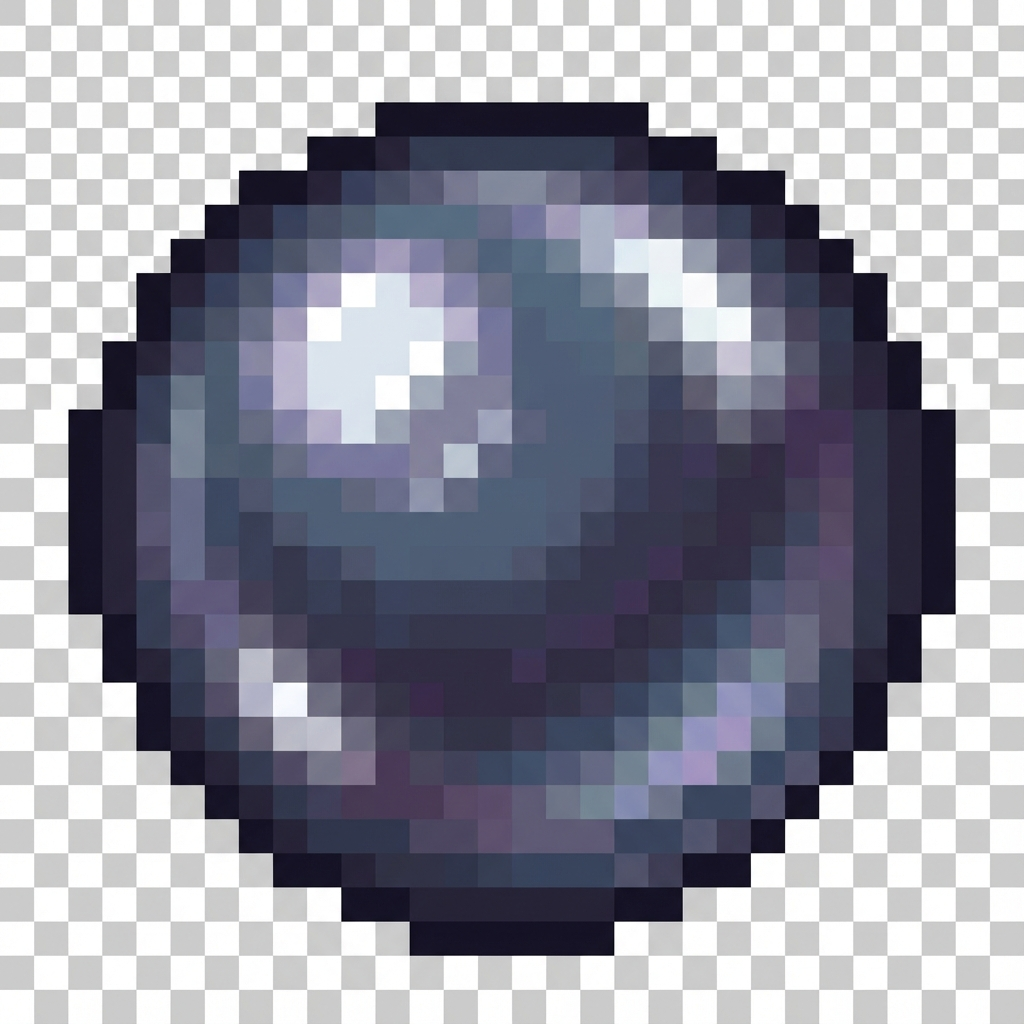
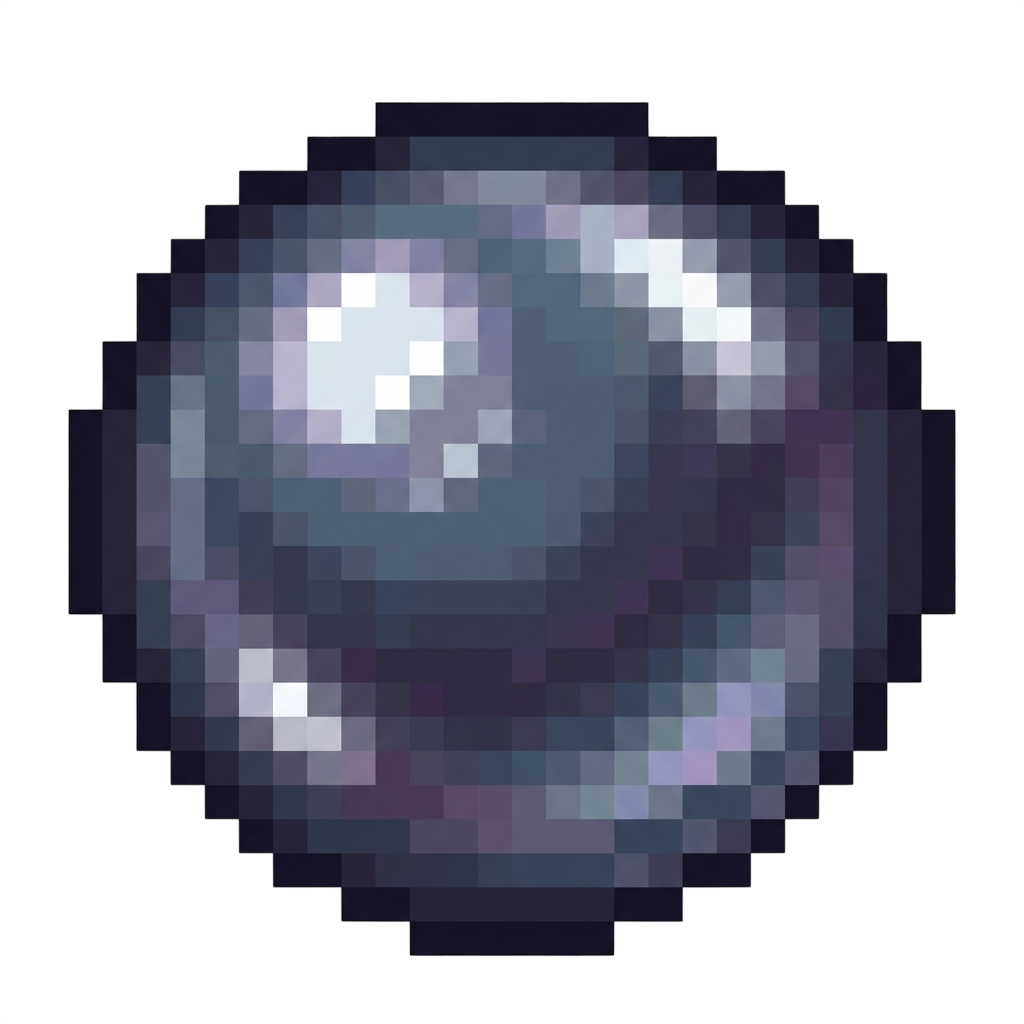
feat: 이미지 배경제거

diff --git a/.agent/workflows/replace-photoroom.md b/.agent/workflows/replace-photoroom.md
@@ -1,0 +1,11 @@
+---
+description: Replace *-Photoroom.png images with the standard filename
+---
+
+1. Execute the replacement script
+// turbo
+Get-ChildItem -Path . -Recurse -Filter "*-Photoroom.png" | ForEach-Object {
+    $newName = $_.Name -replace '-Photoroom',''
+    Move-Item -Path $_.FullName -Destination (Join-Path $_.Directory $newName) -Force
+    Write-Host "Renamed $($_.Name) to $newName"
+}
